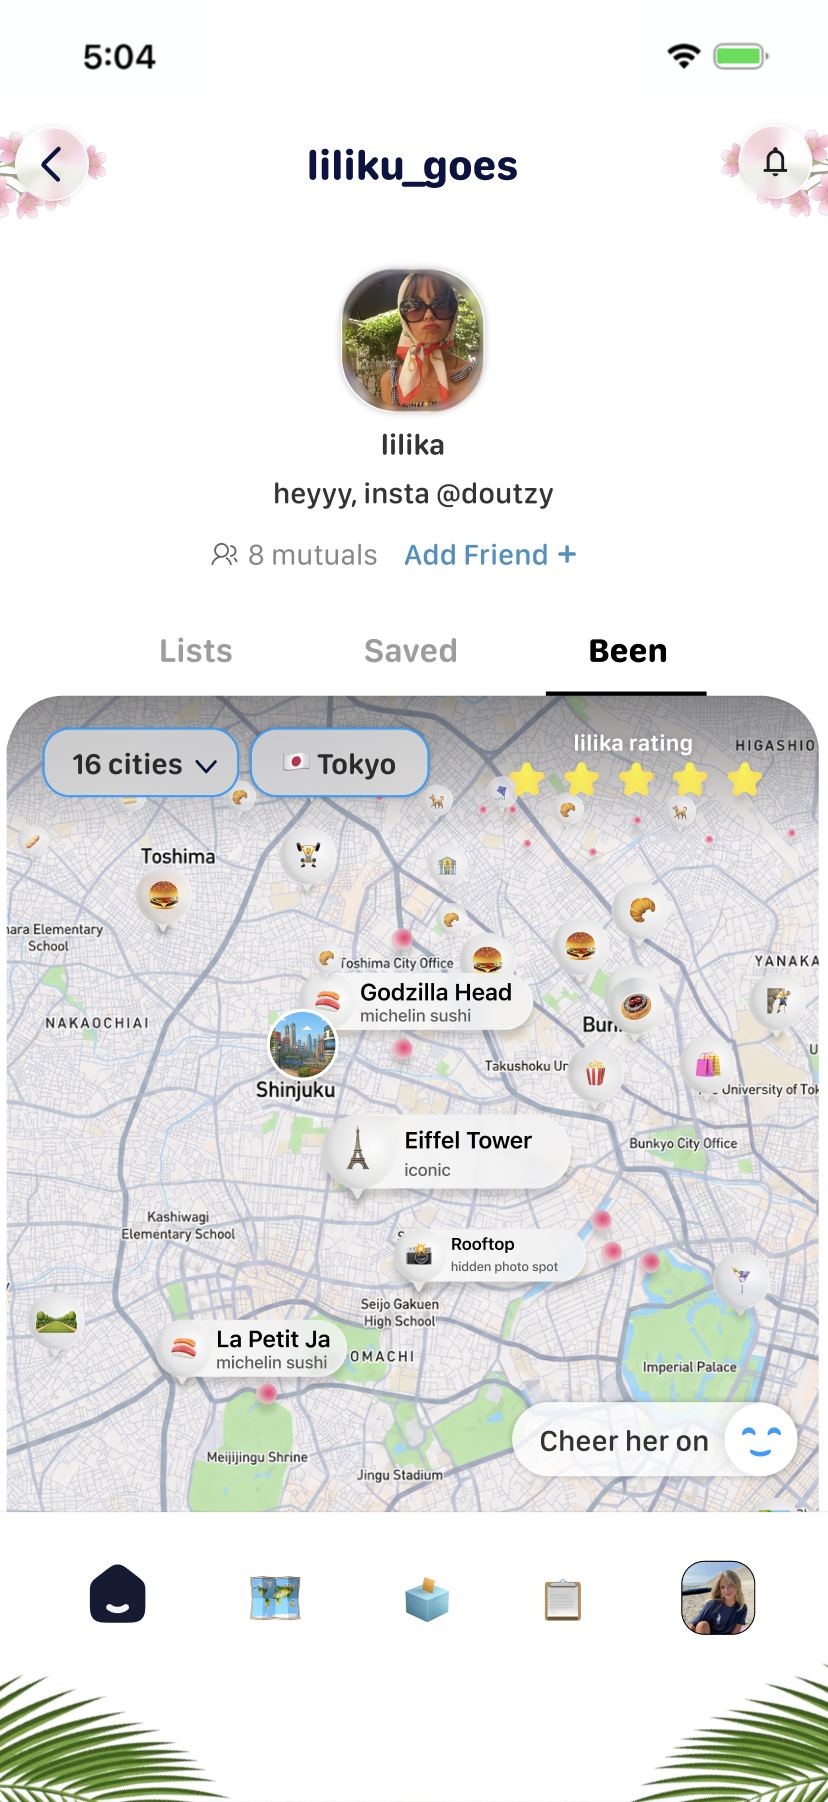
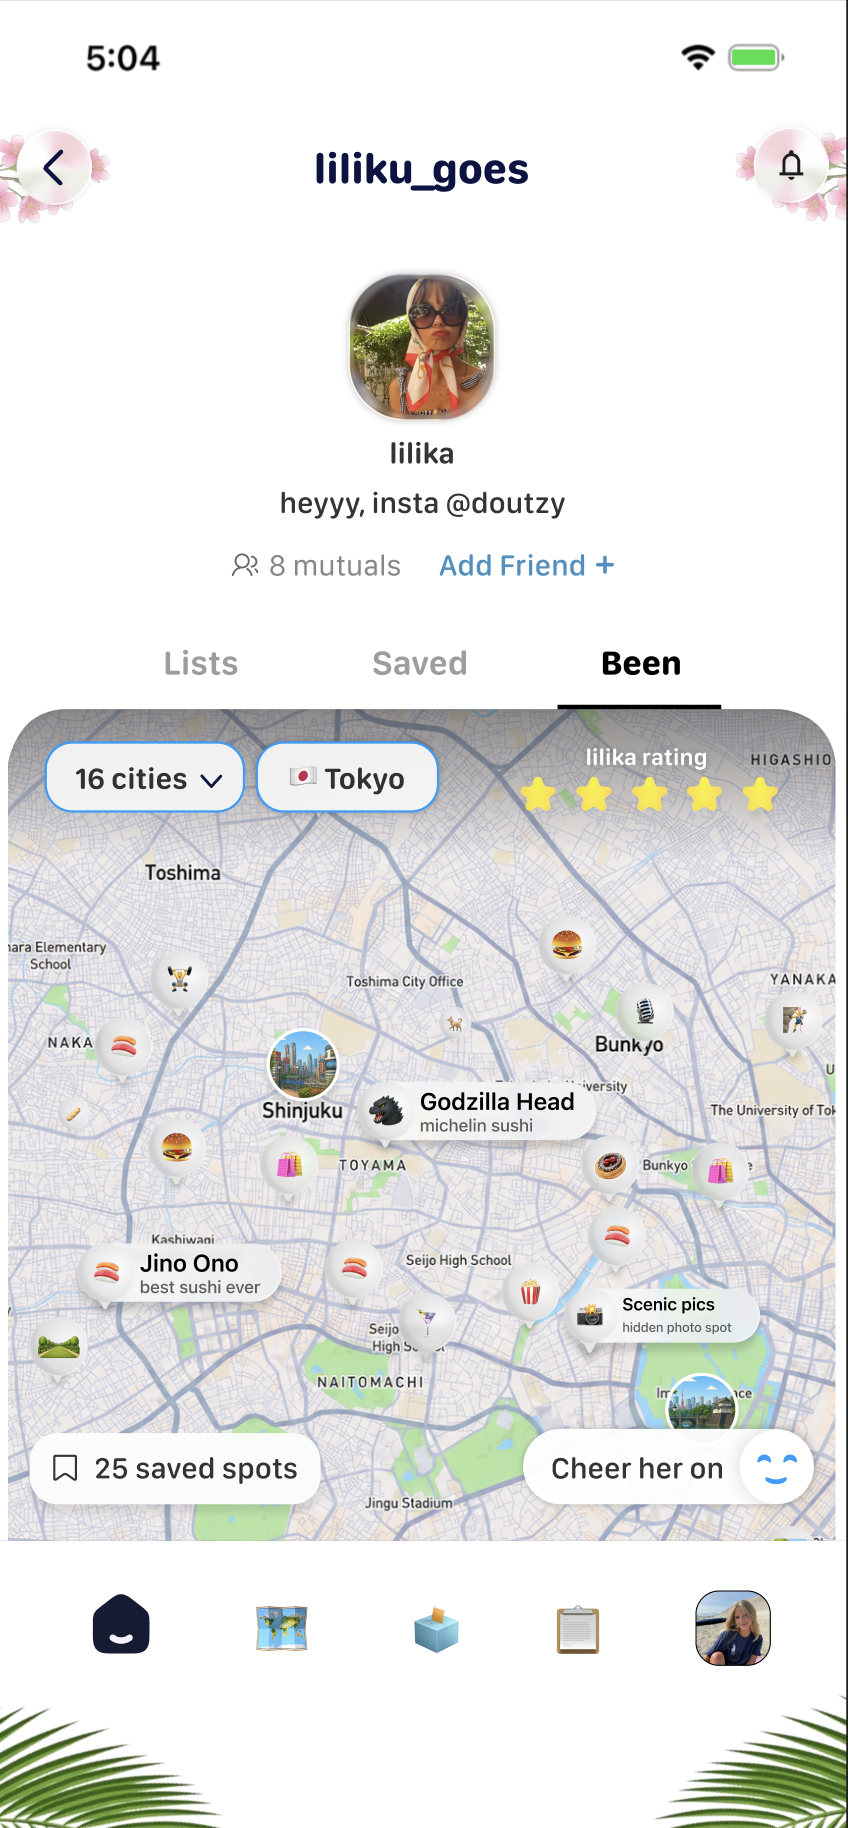
Consumer page: real profile/spot imagery across showcases
- Bento "Plan a trip": planatrip1.png + ProfilePics avatars
- Hero scene-3 notification cards: new copy + ProfilePics/ExampleSpots imagery
- FinalCTA discovery cards: renamed pills (Group Trips / Trending Places /
  Events / Activities), new spot images, ProfilePics avatars
- "What people are finding" marquee: ROW_A profile1-6, ROW_B pq2-7
- Remove unused legacy images (old bento profiles, (NN).jpeg spots)

diff --git a/components/products/DestinationsSection.tsx b/components/products/DestinationsSection.tsx
@@ -15,11 +15,11 @@ import { ScaleToFit } from "@/components/technology/redesign/ScaleToFit";
 // Static imports → AVIF + blur-up for the heavy bento mockups + Friends
 // avatars (were 0.85–2.4 MB raw PNG).
 import heroBackdrop from "@/public/ConsumerPgMedia/heroBackground.png";
-import planATrip from "@/public/ConsumerPgMedia/bento/planatrip.png";
+import planATrip from "@/public/ConsumerPgMedia/bento/planatrip1.png";
 import importMockup from "@/public/ConsumerPgMedia/bento/import-mockup.png";
-import profileSydney from "@/public/ConsumerPgMedia/bento/profile-sydney.png";
-import profileNatalie from "@/public/ConsumerPgMedia/bento/profile-natalie.png";
-import profileSofiee from "@/public/ConsumerPgMedia/bento/profile-sofiee.png";
+import profileSydney from "@/public/ConsumerPgMedia/ProfilePics/profile1.png";
+import profileNatalie from "@/public/ConsumerPgMedia/ProfilePics/profile2.jpeg";
+import profileSofiee from "@/public/ConsumerPgMedia/ProfilePics/profile3.jpeg";
 import elioHomeDesktop from "@/public/ConsumerPgMedia/ElioHomeDesktop3.png";
 
 // Each marquee tile carries the same place / rating / user-prompt metadata
@@ -37,26 +37,24 @@ type DestPhoto = {
   avatar: string;
 };
 
-// Avatars below are intentionally all anonymous / stock faces — the
-// carousel must NOT show any of the founders (David / Erick / Alex)
-// so the marquee reads as "what other people are asking," not a
-// founder-curated feed. Use fresh pravatar seeds that aren't already
-// in ROW_B below.
+// Avatars come from ProfilePics/ (no founders, no external pravatar
+// stock). ROW_A uses the profile1–6 set; ROW_B uses the pq2–pq7 set, so
+// the two marquees show entirely distinct faces.
 const ROW_A: DestPhoto[] = [
-  { src: "/ConsumerPgMedia/ExampleSpots/GoKartTokyo1.jpeg",     place: "GoKart Shibuya",       rating: "4.9", prompt: "Interesting activities in Tokyo",              avatar: "/ConsumerPgMedia/ProfilePics/profile2.png" },
-  { src: "/ConsumerPgMedia/ExampleSpots/WestminsterBridge1.png",place: "Westminster Bridge",   rating: "4.6", prompt: "Cool instagram photo spots in London",         avatar: "https://i.pravatar.cc/80?img=44" },
-  { src: "/ConsumerPgMedia/ExampleSpots/FranceBeach.png",      place: "Villefranche beach",   rating: "4.5", prompt: "Affordable but beautiful beaches in France",   avatar: "/ConsumerPgMedia/ProfilePics/profile3.png" },
-  { src: "/ConsumerPgMedia/ExampleSpots/RioCafe1.png",          place: "Café 18 do Forte",     rating: "4.8", prompt: "Co-working cafes in Rio",                      avatar: "https://i.pravatar.cc/80?img=9" },
-  { src: "/ConsumerPgMedia/ExampleSpots/BouncyCastle.jpeg",    place: "Bouncy Castle Boutique", rating: "4.8", prompt: "Fun stuff to do today for kids",             avatar: "/ConsumerPgMedia/ProfilePics/profile1.png" },
-  { src: "/ConsumerPgMedia/ExampleSpots/RioCarnival1.jpeg",     place: "Carnival of Rio",      rating: "4.7", prompt: "Festivals happening today in Rio?",            avatar: "https://i.pravatar.cc/80?img=57" },
+  { src: "/ConsumerPgMedia/ExampleSpots/GoKartTokyo1.jpeg",     place: "GoKart Shibuya",       rating: "4.9", prompt: "Interesting activities in Tokyo",              avatar: "/ConsumerPgMedia/ProfilePics/profile1.png" },
+  { src: "/ConsumerPgMedia/ExampleSpots/WestminsterBridge1.png",place: "Westminster Bridge",   rating: "4.6", prompt: "Cool instagram photo spots in London",         avatar: "/ConsumerPgMedia/ProfilePics/profile2.jpeg" },
+  { src: "/ConsumerPgMedia/ExampleSpots/FranceBeach.png",      place: "Villefranche beach",   rating: "4.5", prompt: "Affordable but beautiful beaches in France",   avatar: "/ConsumerPgMedia/ProfilePics/profile3.jpeg" },
+  { src: "/ConsumerPgMedia/ExampleSpots/RioCafe1.png",          place: "Café 18 do Forte",     rating: "4.8", prompt: "Co-working cafes in Rio",                      avatar: "/ConsumerPgMedia/ProfilePics/profile4.jpg" },
+  { src: "/ConsumerPgMedia/ExampleSpots/BouncyCastle.jpeg",    place: "Bouncy Castle Boutique", rating: "4.8", prompt: "Fun stuff to do today for kids",             avatar: "/ConsumerPgMedia/ProfilePics/profile5.jpeg" },
+  { src: "/ConsumerPgMedia/ExampleSpots/RioCarnival1.jpeg",     place: "Carnival of Rio",      rating: "4.7", prompt: "Festivals happening today in Rio?",            avatar: "/ConsumerPgMedia/ProfilePics/profile6.jpeg" },
 ];
 const ROW_B: DestPhoto[] = [
-  { src: "/ConsumerPgMedia/ExampleSpots/ZlataPraha.png",       place: "Zlata Praha",          rating: "4.9", prompt: "Romantic date spot with a view in Prague",            avatar: "https://i.pravatar.cc/80?img=33" },
-  { src: "/ConsumerPgMedia/ExampleSpots/ThriftMarketParis1.png",place: "Marché de Saint-Ouen", rating: "4.8", prompt: "Best thrift market in Paris",                  avatar: "https://i.pravatar.cc/80?img=16" },
-  { src: "/ConsumerPgMedia/ExampleSpots/FairmontBaku.png",     place: "Little Venice Baku",   rating: "4.5", prompt: "Best spot in Baku for a sunset?",              avatar: "https://i.pravatar.cc/80?img=11" },
-  { src: "/ConsumerPgMedia/ExampleSpots/TemperoDeVoinha1.png",  place: "Tempero de Voinha",    rating: "4.7", prompt: "Authentic local Brazilian spot in Madrid",     avatar: "https://i.pravatar.cc/80?img=1" },
-  { src: "/ConsumerPgMedia/ExampleSpots/JamesBond2.jpeg",       place: "Chanel event",         rating: "4.9", prompt: "Bars that feel like a James Bond movie",       avatar: "https://i.pravatar.cc/80?img=5" },
-  { src: "/ConsumerPgMedia/ExampleSpots/Palosanto.png",        place: "Palo Santo",           rating: "4.5", prompt: "Coolest NYC rooftop on a summer night",        avatar: "https://i.pravatar.cc/80?img=25" },
+  { src: "/ConsumerPgMedia/ExampleSpots/ZlataPraha.png",       place: "Zlata Praha",          rating: "4.9", prompt: "Romantic date spot with a view in Prague",            avatar: "/ConsumerPgMedia/ProfilePics/pq2.jpeg" },
+  { src: "/ConsumerPgMedia/ExampleSpots/ThriftMarketParis1.png",place: "Marché de Saint-Ouen", rating: "4.8", prompt: "Best thrift market in Paris",                  avatar: "/ConsumerPgMedia/ProfilePics/pq3.jpeg" },
+  { src: "/ConsumerPgMedia/ExampleSpots/FairmontBaku.png",     place: "Little Venice Baku",   rating: "4.5", prompt: "Best spot in Baku for a sunset?",              avatar: "/ConsumerPgMedia/ProfilePics/pq4.jpeg" },
+  { src: "/ConsumerPgMedia/ExampleSpots/TemperoDeVoinha1.png",  place: "Tempero de Voinha",    rating: "4.7", prompt: "Authentic local Brazilian spot in Madrid",     avatar: "/ConsumerPgMedia/ProfilePics/pq5.jpeg" },
+  { src: "/ConsumerPgMedia/ExampleSpots/JamesBond2.jpeg",       place: "Chanel event",         rating: "4.9", prompt: "Bars that feel like a James Bond movie",       avatar: "/ConsumerPgMedia/ProfilePics/pq6.jpeg" },
+  { src: "/ConsumerPgMedia/ExampleSpots/Palosanto.png",        place: "Palo Santo",           rating: "4.5", prompt: "Coolest NYC rooftop on a summer night",        avatar: "/ConsumerPgMedia/ProfilePics/pq7.jpeg" },
 ];
 
 

diff --git a/components/products/FinalCTASection.tsx b/components/products/FinalCTASection.tsx
@@ -27,13 +27,13 @@ type DiscoveryCard =
 const DISCOVERY_CARDS: DiscoveryCard[] = [
   {
     type: "photo",
-    label: "group trips",
-    img: "/ConsumerPgMedia/ExampleSpots/(20).jpeg",
+    label: "Group Trips",
+    img: "/ConsumerPgMedia/ExampleSpots/Vegas.png",
     avatars: [
-      "/CompanyPgMedia/David.png",
-      "https://i.pravatar.cc/80?img=35",
-      "/ConsumerPgMedia/ProfilePics/profile2.png",
-      "https://i.pravatar.cc/80?img=44",
+      "/ConsumerPgMedia/ProfilePics/profile1.png",
+      "/ConsumerPgMedia/ProfilePics/profile2.jpeg",
+      "/ConsumerPgMedia/ProfilePics/profile3.jpeg",
+      "/ConsumerPgMedia/ProfilePics/profile4.jpg",
     ],
     left: 380,
     top: 560,
@@ -42,13 +42,9 @@ const DISCOVERY_CARDS: DiscoveryCard[] = [
   },
   {
     type: "photo",
-    label: "activities",
-    img: "/ConsumerPgMedia/ExampleSpots/(17).jpeg",
-    avatars: [
-      "/CompanyPgMedia/AlexFounder.png",
-      "/ConsumerPgMedia/ProfilePics/profile4.jpg",
-      "/ConsumerPgMedia/ProfilePics/profile3.png",
-    ],
+    label: "Events",
+    img: "/ConsumerPgMedia/ExampleSpots/FireWorks.png",
+    avatars: [],
     left: 1310,
     top: 470,
     rot: 4,
@@ -58,8 +54,8 @@ const DISCOVERY_CARDS: DiscoveryCard[] = [
     type: "place",
     label: "Restaurants",
     placeName: "Panaria",
-    placeSub: "calm cafe",
-    img: "/ConsumerPgMedia/ExampleSpots/(14).jpeg",
+    placeSub: "local eating",
+    img: "/ConsumerPgMedia/ExampleSpots/TemperoDeVoinha1.png",
     left: 700,
     top: 1030,
     rot: 0,
@@ -67,18 +63,19 @@ const DISCOVERY_CARDS: DiscoveryCard[] = [
   },
   {
     type: "stacked",
-    label: "trending places",
-    imgs: ["/ConsumerPgMedia/ExampleSpots/(19).jpeg", "/ConsumerPgMedia/ExampleSpots/(22).jpeg", "/ConsumerPgMedia/ExampleSpots/(21).jpeg"],
+    label: "Trending Places",
+    imgs: ["/ConsumerPgMedia/ExampleSpots/ThriftMarketParis1.png", "/ConsumerPgMedia/ExampleSpots/WestminsterBridge1.png", "/ConsumerPgMedia/ExampleSpots/JamesBond2.jpeg"],
     left: 1020,
     top: 480,
     rot: -2,
     delay: 0.3,
   },
   {
-    type: "place-only",
+    type: "place",
+    label: "Activities",
     placeName: "Lupita",
     placeSub: "tapas bar",
-    img: "/ConsumerPgMedia/ExampleSpots/(23).jpeg",
+    img: "/ConsumerPgMedia/ExampleSpots/BouncyCastle.jpeg",
     left: 980,
     top: 950,
     rot: 0,

diff --git a/components/products/Hero.tsx b/components/products/Hero.tsx
@@ -191,7 +191,7 @@ const NOTIFICATIONS: Notif[] = [
     title: "Sophie saved a spot in Barcelona",
     sub: "Wants to know if you’re free Sunday · 20 min ago",
     kind: "avatar",
-    avatar: "/ConsumerPgMedia/ProfilePics/profile2.png",
+    avatar: "/ConsumerPgMedia/ProfilePics/profile3.jpeg",
     x: -440, y: -210, rot: -3, behind: false, delay: 0,
   },
   // Top-right — Elio built your trip (sharp, in front). Uses the
@@ -206,14 +206,13 @@ const NOTIFICATIONS: Notif[] = [
   {
     title: "Hidden coffee shop opened nearby",
     sub: "4 min walk · Trending today",
-    kind: "icon",
-    emoji: "📍",
-    badge: "#0F1B2D",
+    kind: "avatar",
+    avatar: "/ConsumerPgMedia/ExampleSpots/NewCafe.jpeg",
     x: -320, y: 30, rot: -4, behind: true, delay: 0.22,
   },
   // Mid-right — Trending events (faded, behind)
   {
-    title: "Trending in Williamsburg this weekend",
+    title: "Trending in San Francisco this weekend",
     sub: "8 events Saturday night",
     kind: "icon",
     emoji: "📅",
@@ -222,10 +221,10 @@ const NOTIFICATIONS: Notif[] = [
   },
   // Bottom-left — Sarah & James joined (sharp, in front)
   {
-    title: "Sarah & James joined your trip",
+    title: "Olivia & Sam joined your trip",
     sub: "Tokyo Gems · 14 spots saved together",
     kind: "stacked",
-    avatars: ["/CompanyPgMedia/David.png", "/CompanyPgMedia/Erick.png"],
+    avatars: ["/ConsumerPgMedia/ProfilePics/profile5.jpeg", "/ConsumerPgMedia/ProfilePics/profile6.jpeg"],
     x: -420, y: 240, rot: -2, behind: false, delay: 0.34,
   },
   // Bottom-right — Rain swap (sharp, in front)